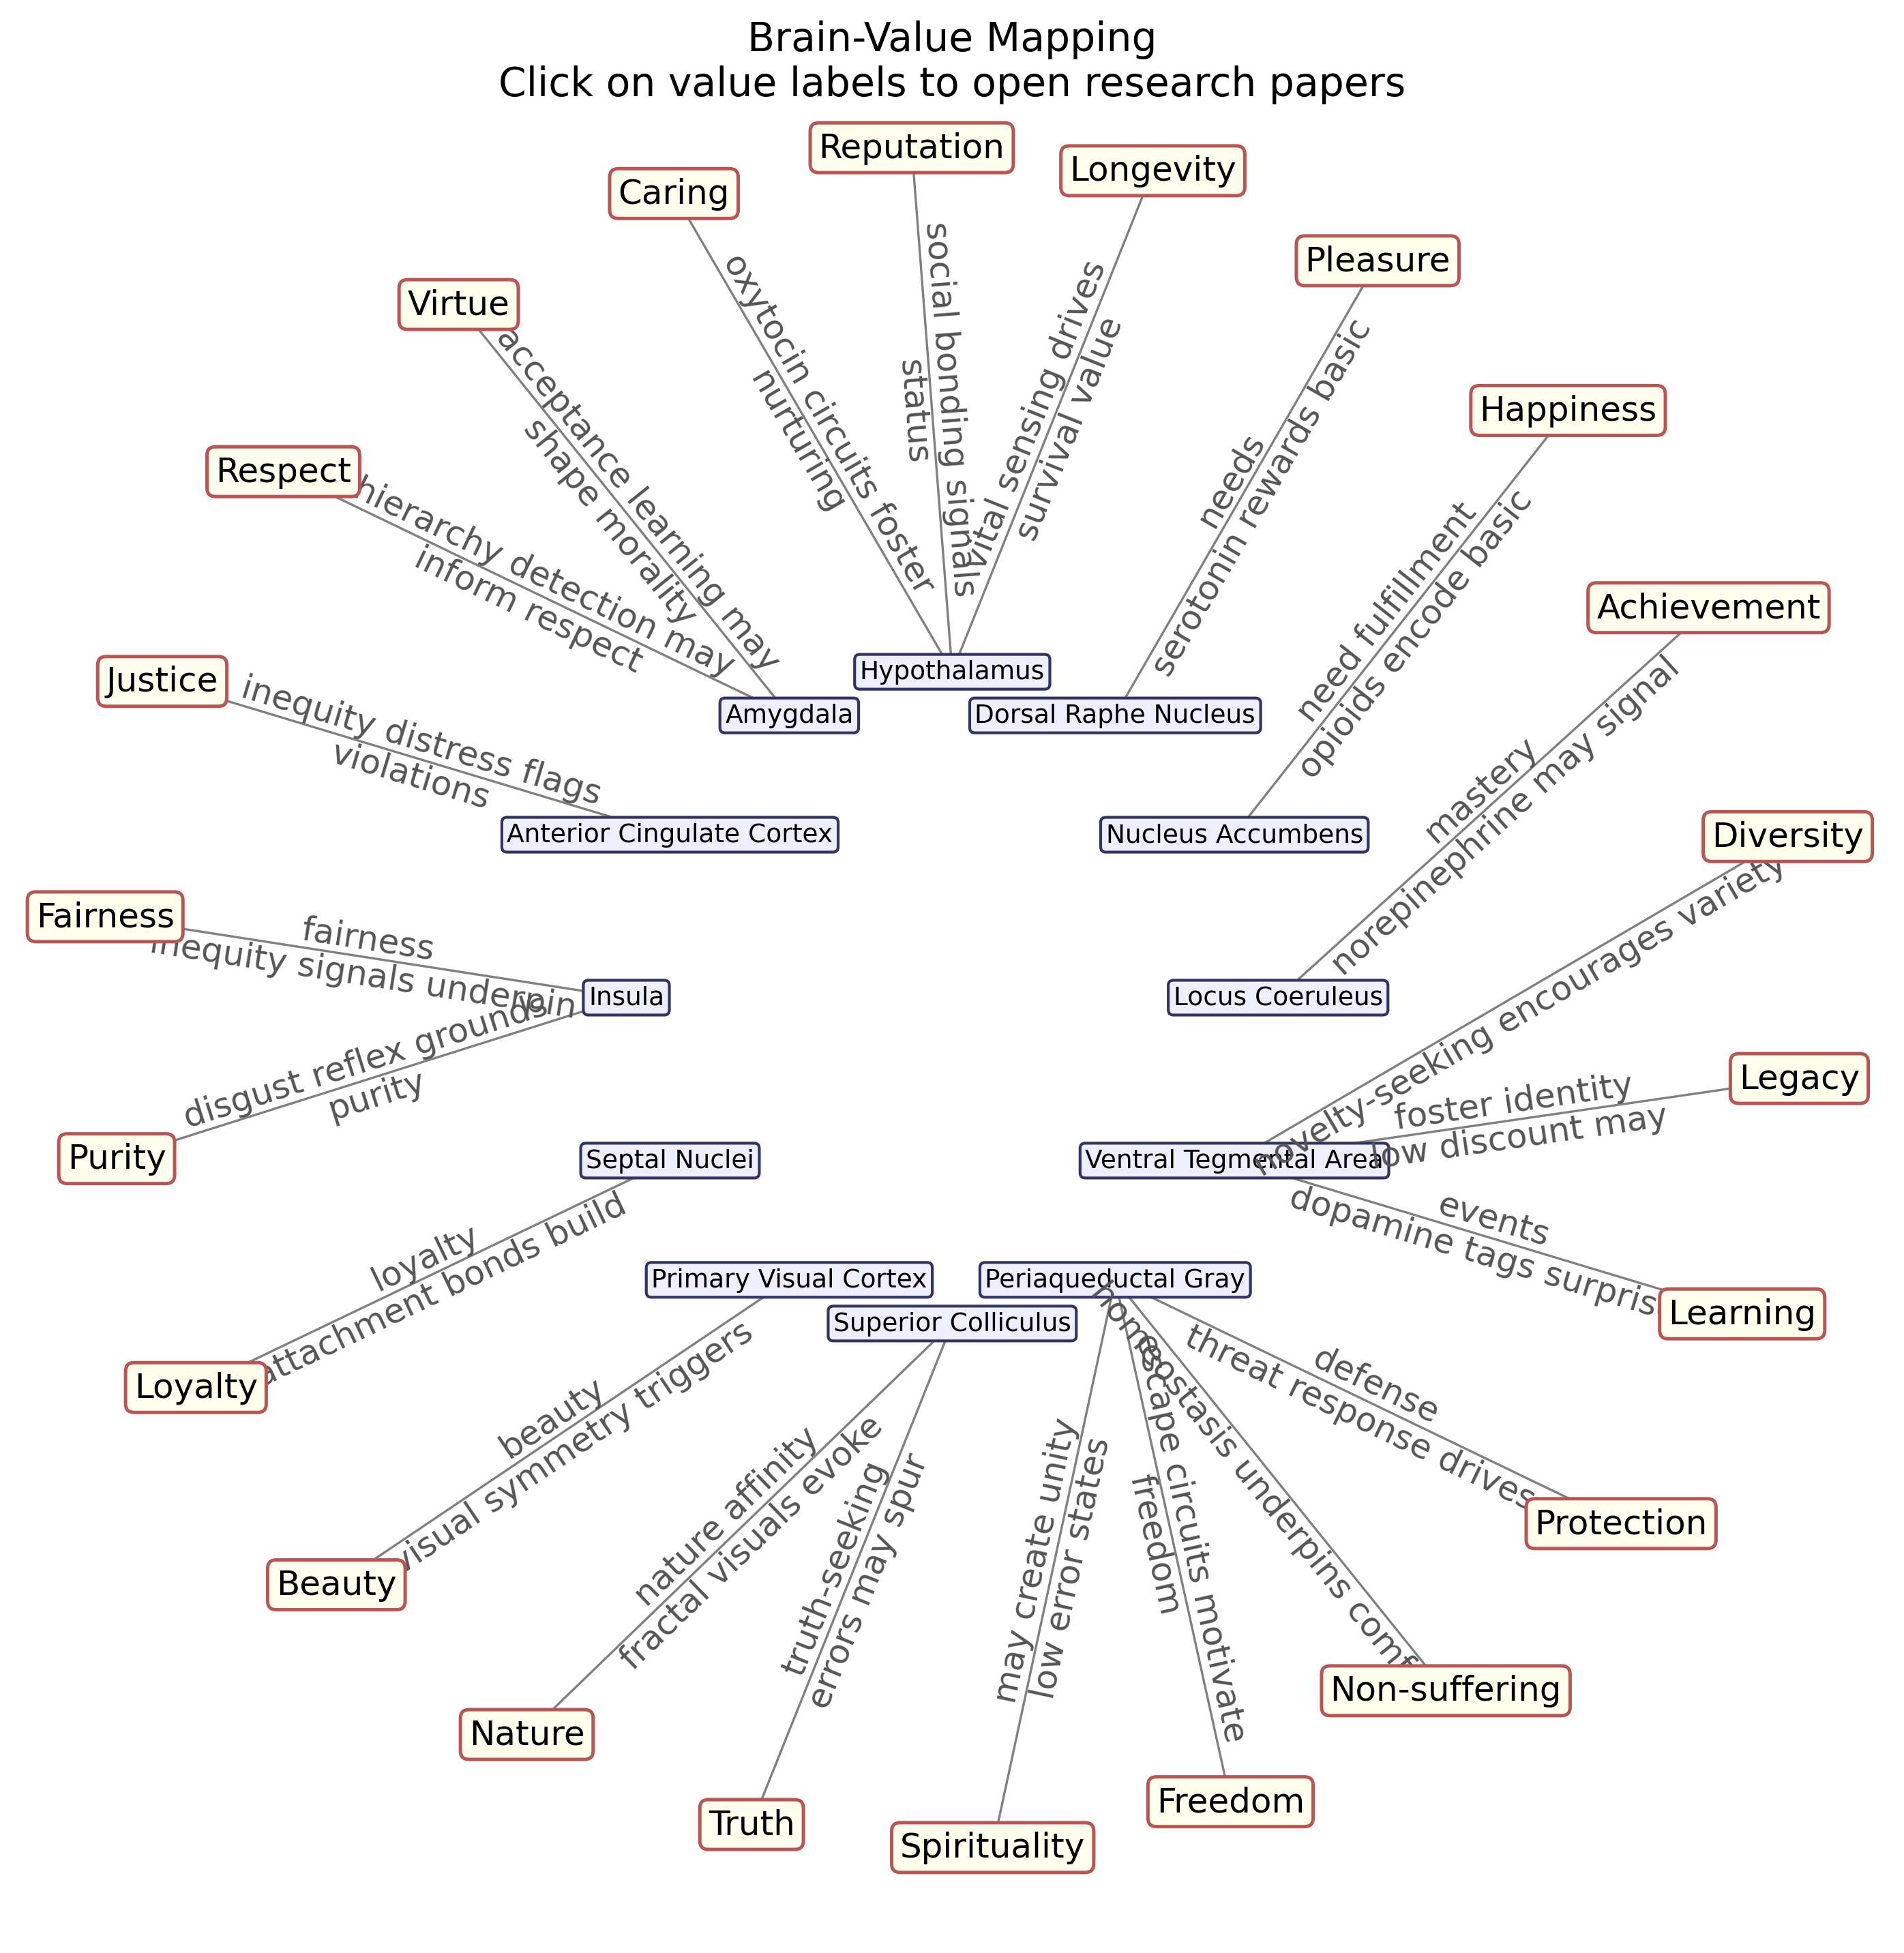
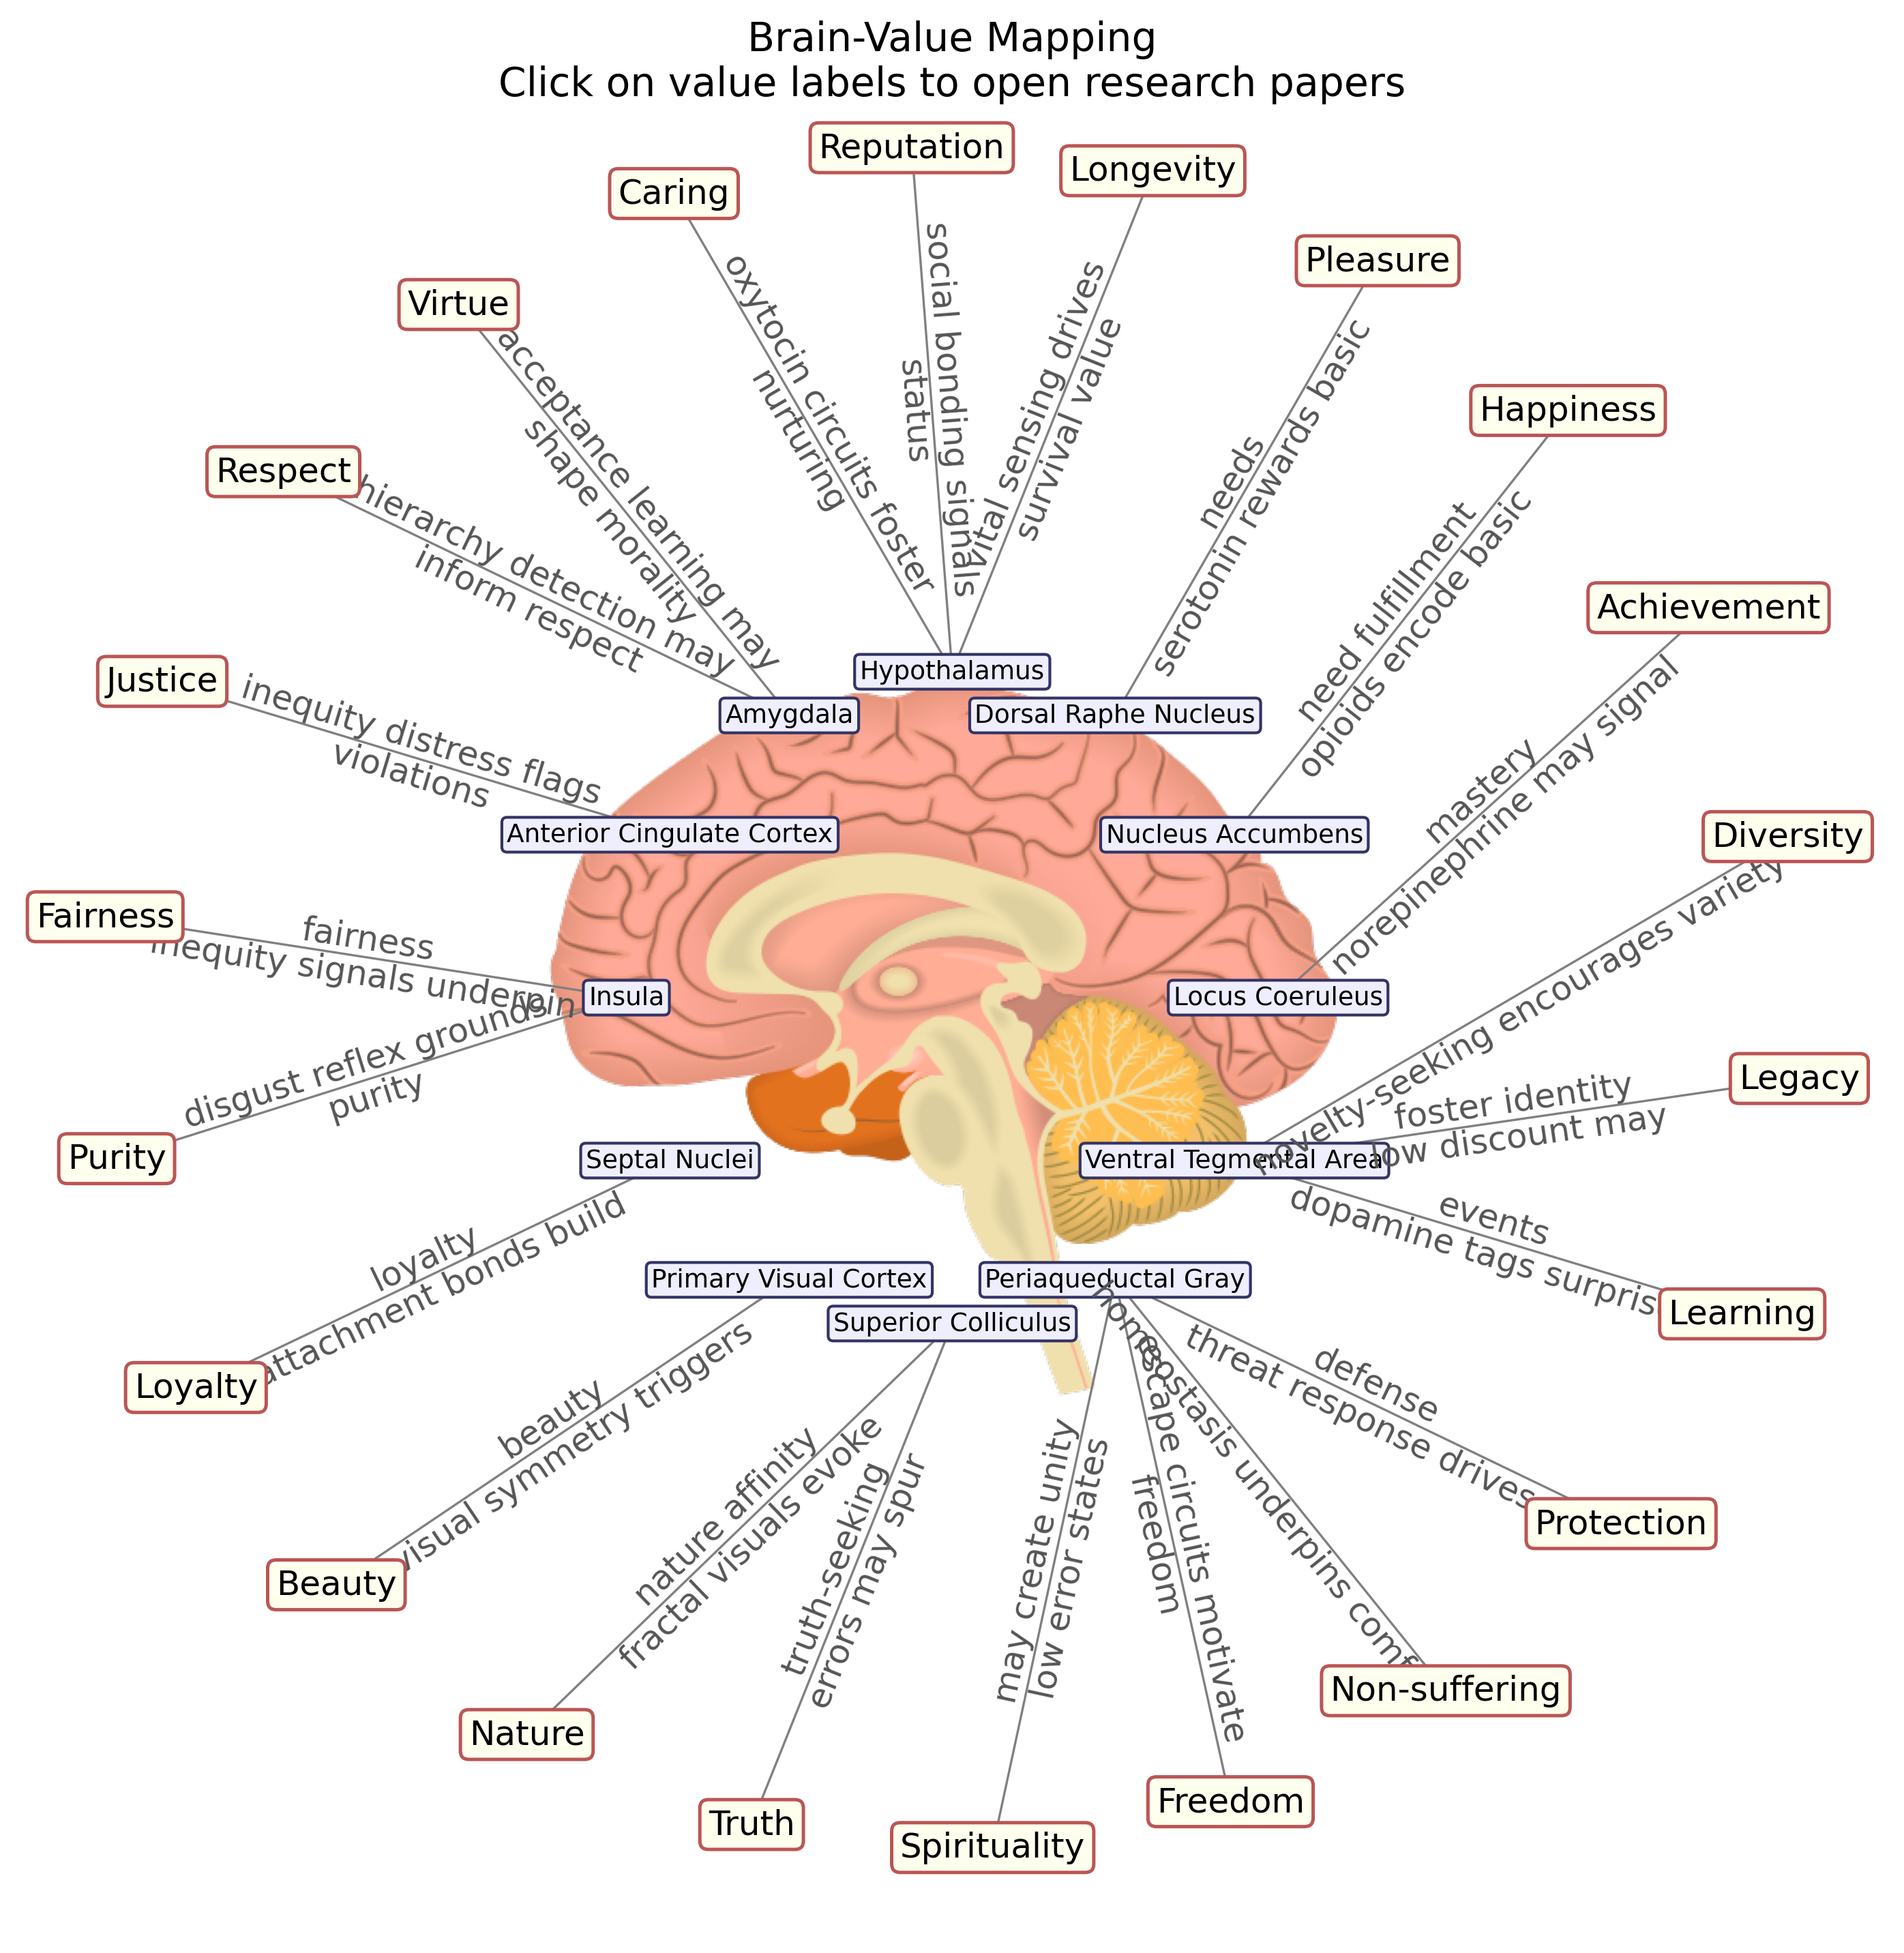
Add value-bundle drift essay and PDF export for brain diagram.
Capture the new paper and its figure, plus regenerate brain-value outputs with clickable PDF support.

Changed region(s): [[0.2804, 0.3418, 0.7167, 0.6526], [0.5297, 0.6837, 0.592, 0.7147]]

diff --git a/value-bundle-drift.tex b/value-bundle-drift.tex
@@ -1,0 +1,165 @@
+\documentclass[10pt,twocolumn]{article}
+\usepackage[margin=0.62in]{geometry}
+\usepackage{amsmath,amssymb,booktabs,graphicx,microtype}
+\usepackage[compact]{titlesec}
+\usepackage{enumitem}
+\setlist{nosep,leftmargin=*}
+\titlespacing*{\section}{0pt}{0.55em}{0.25em}
+\titlespacing*{\subsection}{0pt}{0.45em}{0.15em}
+\setlength{\parindent}{0.8em}
+\setlength{\parskip}{0pt}
+
+\title{Selection-Channel Alignment or the Limits of Harsh Correction}
+\author{Gunnar Zarncke, aintelope}
+\date{May 19, 2026}
+
+\begin{document}
+\maketitle
+\vspace{-1.5em}
+
+\begin{abstract}
+Robin Hanson argues that the strongest engines of cultural evolution have often been forces we morally code as ``evil'', 
+such as covert politics, war, capitalism, or demographic competition. 
+Moral reflection and socially praised norms drift in the absence of adaptive feedback. 
+I introduce long-horizon smoothed value bundles and reified social value artifacts 
+to show that selection strength alone is insufficient for value alignment.
+It fails when alignment is weakened or the mechanism itself is corrupted.
+\end{abstract}
+
+\section{Why Does ``Good'' Lose?}
+Hanson's ``good'' and ``evil'' are social concepts: 
+``good'' names the norm-governed suppression of local competition; 
+``evil'' names the competitive, covert, adversarial violation of sacredness.
+The claim that latter often generate stronger selection gradients seems historically claim is plausible. 
+Foragers may praise sharing but are selected for coalition skill; 
+farmers may praise piety while war selects institutional forms; 
+industrial society condemn capitalist selfishness while capital reallocates resources out of sight.
+
+But a selector can be strong without being aligned (to be defined soon). 
+A harsh selector may keep a culture adaptive while making it miserable. 
+On the other hand, why would a strong selector be required? 
+A weak selector still corrects errors, just slower. 
+That is only a disadvantage if it is outcompeted by the stronger selector. But that depends on more than the strength alone.
+A selector also has to maintain the memory and machinery of its corrections mechanism.
+Strong selectors tend to destroy or degrade much of their machinery.
+The issue is not good versus evil, nor weak versus strong selection. 
+The issue is whether the correction channel remains coupled to the long-horizon bundle of human regulatory goods.
+If not, even a strong selector will fail long-term.
+
+\begin{figure*}[t]
+  \centering
+  \includegraphics[width=\textwidth]{value-bundle-drift-illustration.png}
+  \caption{Cultural feedback over time: raw regulatory pressures $p_t$ are smoothed into bundle $B_t$, reified as artifacts $A_t$, enacted through ecology $\phi_E$, and fed back into future dynamics. Effective correction $\kappa_c = s_c a_c m_c$ requires selection strength, bundle alignment, and substrate maintenance; weak misaligned channels drift, harsh misaligned ones Goodhart.}
+  \label{fig:bundle-drift}
+\end{figure*}
+
+\section{Model}
+Let $p_t$ denote a vector of raw regulatory pressures at time $t$: 
+comfort, attachment, status, agency, truth-contact, novelty, threat, care, competence, and similar signals. 
+These are not final values. They are local control pressures produced by human neurobiological machinery in the social environment.
+
+Values, as modeled here, arise only after smoothing over time. Let
+\begin{equation}
+B_t = \mathcal M_{T,E}(p_{t:t+T})
+\end{equation}
+be the smoothed bundle produced by evaluating proxy trajectories over horizon $T$ in the environment $E$. 
+$B_t$ is not metaphysical value; it is the regulatory pattern that is stable over longer-horizons.
+
+Societies cannot transmit $B_t$ directly as it is the sum of what people have felt in the past. 
+By reflection, communication, and agreement, they reify parts of it into value artifacts:
+\begin{equation}
+A_t = \rho(B_t),
+\end{equation}
+where these $A_t$ are compressed, transmissible, motivational representations: 
+``truth'', ``care'', ``honor'', ``freedom'', ``justice'', ``good'', ``evil''. 
+The quotes here reflecting Hanson's use of the communicated entitie (Good without quotes being more appropriate for the $B_t$).
+The artifact then acts back on the future proxy through the environment:
+\begin{equation}
+A_t \xrightarrow{\phi_E} p_{t+1:t+T}.
+\end{equation}
+
+Hanson's cultural failure consists in $A$ remaining socially successful while drifting away from $B$.
+
+\section{Hanson, Formalized}
+Let $f_j(t)$ be the frequency of artifact or practice $A_j$. 
+A selection channel $c$ evaluates it by some score $y_c(A_j,E)$: 
+fertility, profit, military success, prestige, clicks, institutional growth, or coalition power. 
+Hanson emphasizes the strength
+\begin{equation}
+s_c = \left|\frac{\partial \log f_j}{\partial y_c}\right|,
+\end{equation}
+i.e., moral culture often has low $s_c$, while war, capitalism, and demographic competition have high $s_c$; 
+therefore the latter wins over the former.
+
+But the bundle target is not $y_c$. Define the long-horizon bundle outcome
+\begin{equation}
+Q(A,E) = \mathcal M_{T,E}(p_{t:t+T}\mid A,E).
+\end{equation}
+Then the alignment of channel $c$ is approximately
+\begin{equation}
+a_c = \operatorname{Corr}\big(y_c(A,E), Q(A,E)\big).
+\end{equation}
+Finally, let $m_c$ measure mechanism maintenance: whether the selector preserves the memory, agency, trust, attention, competence, and institutional comparison structures that keep $a_c$ informative. Effective correction is not strength alone but
+\begin{equation}
+\kappa_c = s_c\, a_c\, m_c.
+\end{equation}
+This is the central correction to Hanson. A strong channel with $a_c<0$ or $m_c<0$ does not save value. It accelerates divergence.
+
+\section{Drift vs Goodharting}
+Weak correction does not fail because it stops correcting. 
+It fails because \emph{other} gradients erode its mechanism. 
+Long-horizon social learning depends on family transmission, intergenerational memory, local autonomy, honest comparison, survivable failure, and institutional recall. 
+A culture can still notice that some practices ``do not work'', but if the memory channel is mediated by prestige, bureaucracy, media fashion, or therapy, feedback remains active while becoming less informative.
+
+Harsh correction fails like that and not like that: War selects discipline and logistics, but also trauma, paranoia, coercion, and rulers good at war. 
+Biological selection preserves fertility, but may sacrifice truth, art, mercy, education, or reflective autonomy. 
+Capitalism selects responsiveness, efficiency, and innovation, but also addiction, externalities, attention capture, monopoly, and preference manipulation. 
+Thus:
+\begin{equation}
+\text{weak selectors drift; harsh selectors Goodhart.}
+\end{equation}
+More precisely: weak selectors are more likely to lose memory and harsh selectors are more likely to eat their own machinery.
+
+\section{Capitalism}
+Capitalism works when price and profit track bundle-relevant constraints:
+\begin{equation}
+y_{\mathrm{profit}} \approx Q.
+\end{equation}
+It fails when profit is made by degrading the system that generates preferences. 
+Addictive social media, gambling, ultra-processed food, opioids, outrage media, and some forms of pornography are not failures of correction. They are cases of rapid correction on the wrong signal. The market learns revealed preference, but the product modifies the future preference-generator. 
+Then
+\begin{equation}
+y_{\mathrm{profit}} \uparrow \quad \text{while} \quad Q \downarrow.
+\end{equation}
+The missing part is not vague morality. It is the integrity of the preference-generating system: attention, agency, bodily health, trust, family stability, and reality-contact. Market selection is bundle-aligned where consumers remain competent evaluators and externalities are priced. It is bundle-divergent where products profit by reducing evaluative competence.
+
+\section{Changing Proxy Salience}
+Modern value drift need not imply rapid change in human nature. The environment changes which sub-bundles become salient:
+\begin{equation}
+w_i(E)=\operatorname{Salience}(p_i\mid E), \qquad p_i^{\mathrm{salient}} \xrightarrow{\rho} A_i.
+\end{equation}
+Scarcity and danger foreground security, kin, fertility, hierarchy, purity, and honor. 
+Wealth and peace foreground autonomy, comfort, fairness, anti-domination, psychological safety, and authenticity. 
+Digital attention foregrounds novelty, outrage, status comparison, identity defense, and moral display. 
+The same regulatory system yields different value artifacts under different environments.
+
+This matters because Hanson can describe modern culture as forager moral drift, but the sharper claim is domain shift: modern environments change which proxy sub-bundles are available for reflection, moralization, and institutional capture.
+
+\section{Criterion: Substrate-Preserving Correction}
+A correction mechanism is good only if it updates artifacts without corrupting the channel by which future error is detected. Formally, for plural channels $c$,
+\begin{equation}
+\kappa_{\mathrm{total}} = \sum_c \lambda_c s_c a_c m_c.
+\end{equation}
+No single channel tracks the whole bundle. Markets, law, science, family, religion, apprenticeship, democratic accountability, local communities, and technological measurement each see different parts of $Q$ and each can be captured. The engineering target is therefore not stronger selection as such, but plural, substrate-preserving, corrigible correction.
+
+\section{Predictions}
+The model predicts: (i) value artifacts selected mainly by prestige or coalition signals should semantically intensify while long-horizon bundle metrics worsen; (ii) weak cultures can still correct when memory and comparison structures remain intact; (iii) high-gradient selectors should show faster local adaptation and greater substrate depletion where externalities are available; (iv) markets whose products alter attention, agency, addiction, or trust should show profit growth with declining bundle outcomes; (v) societies with multiple semi-independent correction channels should resist both decorative moral drift and harsh-selector Goodharting better than societies dominated by one channel.
+
+\section{Conclusion}
+Hanson's strongest point is that moral praise is not an adaptive engine. The reply is that adaptive engines are not necessarily value-alignment engines. Human societies reify smoothed regulatory bundles into artifacts such as ``good'', ``evil'', ``truth'', and ``freedom''. These artifacts survive only if carried by selection channels, but those channels preserve value only when their scores remain coupled to the bundle and when they preserve the substrate that makes their own feedback informative. The future of good and evil is therefore not decided by whether culture or capitalism wins, but by whether our correction mechanisms remain aligned with the bundles they are supposed to protect.
+
+\begin{thebibliography}{9}\setlength{\itemsep}{0pt}
+\bibitem{hanson2026} Hanson, R. (2026). \emph{The Past and Future of Good and Evil}. Overcoming Bias.
+\end{thebibliography}
+
+\end{document}

diff --git a/brain.py b/brain.py
@@ -407,6 +407,7 @@ def draw_brain_values():
     plt.tight_layout()
     plt.savefig("brain_values.svg", format='svg', bbox_inches='tight', dpi=300)
     plt.savefig("brain_values.png", format='png', bbox_inches='tight', dpi=300)
+    plt.savefig("brain_values.pdf", format='pdf', bbox_inches='tight', dpi=300)
     print("Saved brain_values.svg (with clickable links) and brain_values.png")
     print("Click on value labels in the interactive display to open research papers!")
     plt.show()